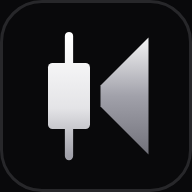
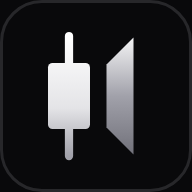
手機捲動、熱門併進排行、選股數字對比、免責聲明只放頁尾（2026.10.18-88）
- 手機清單不再是內層捲動區、頂列不用模糊，往上滑整頁都能捲
- 台股熱門、美股熱門併進排行（上方切換），大盤台股、美股頁加熱門前 8
- 選股數字格與行事曆選中日期改成強調色底＋深色字
- 免責聲明只在頁尾一次；手機頂列 KLineLab 字樣不被擠掉；按鍵無框；Logo 光束改細

Claude-Session: https://claude.ai/code/session_011EReSQ4tNZuoZsgYyKDAzu

Changed region(s): [[0.5, 0.1875, 0.7812, 0.8125]]

diff --git a/learner/watch.html b/learner/watch.html
@@ -6,9 +6,9 @@
 <title>KLineLab｜看盤終端</title>
 <meta name="description" content="自選股（多群組）、台股與美股熱門、排行、當日分時、K 線（分／日／週／月都能往前拉）、技術分析、籌碼、基本面、五檔、持股損益與價格提醒。">
 <meta name="theme-color" content="#09090B">
-<link rel="manifest" href="watch.webmanifest?v=2">
-<link rel="apple-touch-icon" href="watch-icon-180.png?v=2">
-<link rel="icon" href="logo.svg?v=2" type="image/svg+xml">
+<link rel="manifest" href="watch.webmanifest?v=3">
+<link rel="apple-touch-icon" href="watch-icon-180.png?v=3">
+<link rel="icon" href="logo.svg?v=3" type="image/svg+xml">
 <link rel="alternate icon" href="watch-icon-192.png">
 <meta name="apple-mobile-web-app-capable" content="yes">
 <meta name="mobile-web-app-capable" content="yes">
@@ -272,7 +272,7 @@ input[type="number"] { padding: 6px 9px; border: 1px solid var(--line); border-r
   .qbar button svg { width: 22px; height: 22px; fill: none; stroke: currentColor; stroke-width: 1.8; stroke-linecap: round; stroke-linejoin: round; }
   .qbar button[aria-current="true"] { color: var(--accent); font-weight: 500; }
 }
-@media (max-width: 480px) { .brand span { display: none; } .w-top { padding-left: 10px; padding-right: 10px; } .d-px b { font-size: 28px; } .ixc { padding: 3px 8px; gap: 4px; } }
+@media (max-width: 480px) { .brand .bl-t small, .w-top .bl-pro { display: none; } .w-top { padding-left: 10px; padding-right: 10px; } .d-px b { font-size: 28px; } .ixc { padding: 3px 8px; gap: 4px; } }
 /* 清單分頁可以左右滑 */
 .etfseg { flex-wrap: wrap; max-width: 100%; } .etfseg button { white-space: nowrap; flex: 0 0 auto; }
 .wl .annrow { display: flex; align-items: center; gap: 6px; padding-right: 10px; } .wl .annrow .row { flex: 1; min-width: 0; } .wl .annrow .pc { background: none; color: var(--muted); font-size: 12px; }
@@ -345,7 +345,7 @@ input[type="number"] { padding: 6px 9px; border: 1px solid var(--line); border-r
 .gtiles.mk-g { margin: 0; }
 .caldays { display: grid; grid-template-columns: repeat(7, minmax(0, 1fr)); gap: 4px; margin-bottom: 8px; }
 .caldays button { border: 1px solid var(--line); border-radius: 4px; background: var(--surface); color: var(--ink); cursor: pointer; padding: 5px 0; display: flex; flex-direction: column; align-items: center; gap: 1px; font: inherit; min-width: 0; }
-.caldays button[aria-pressed="true"] { background: var(--accent); border-color: var(--accent); color: #fff; } .caldays button.today { border-color: var(--accent); } .caldays small { font-size: 11px; opacity: .8; } .caldays b { font: 500 17px var(--font-num); }
+.caldays button[aria-pressed="true"] { background: var(--grad-strong); border-color: var(--grad-strong); color: var(--on-strong); } .caldays button.today { border-color: var(--accent); } .caldays small { font-size: 11px; opacity: .8; } .caldays b { font: 500 17px var(--font-num); }
 .caldays span { display: flex; flex-direction: column; align-items: center; font-size: 10.5px; line-height: 1.3; } .caldays i, .calday i { font-style: normal; font-weight: 500; } .cc { color: #6c8cff; } .ce { color: #2bb58a; } .caldays button[aria-pressed="true"] i { color: #fff; }
 .wlist { list-style: none; margin: 0; padding: 0; } .wlist button { width: 100%; display: flex; justify-content: space-between; gap: 8px; align-items: center; border: 0; border-bottom: 1px solid var(--line); background: none; color: var(--ink); padding: 7px 0; cursor: pointer; text-align: left; font: inherit; }
 .wlist .nm { display: flex; flex-direction: column; font-size: 14px; } .wlist small { color: var(--muted); font-size: 11.5px; } .wlist .wr { text-align: right; max-width: 55%; }
@@ -499,6 +499,7 @@ input[type="number"] { padding: 6px 9px; border: 1px solid var(--line); border-r
 .bwrap { margin: 6px 12px; border: 1px solid var(--line); border-radius: 4px; background: var(--surface-2); } .bubble { width: 100%; height: auto; display: block; } .bax { stroke: var(--line); stroke-width: 1; } .bq { font: 500 10px var(--font-body); fill: var(--muted); }
 .bnode { cursor: pointer; } .bnode circle { stroke: none; fill-opacity: var(--bop, .45); transition: fill-opacity .2s; } .bnode.on circle { fill-opacity: min(1, calc(var(--bop, .45) + .35)); } .bnode:focus circle, .bnode:hover circle { fill-opacity: min(1, calc(var(--bop, .45) + .2)); }
 .mtool { display: flex; align-items: center; justify-content: space-between; gap: 8px 12px; flex-wrap: wrap; margin: 6px 12px; } .mtool .cg-t { font-family: var(--font-display); font-weight: 600; color: var(--ink); letter-spacing: .02em; }
+.foot-disc { margin: 4px 16px 12px; } :root[data-embed="1"] .foot-disc { display: none; } .hotmini h3 { display: flex; align-items: baseline; gap: 8px; }
 .ctags { display: flex; flex-wrap: wrap; gap: 4px; margin-top: 3px; } .ctg { font-style: normal; font-size: 11px; line-height: 1.5; padding: 0 6px; border-radius: 4px; border: 1px solid var(--line); color: var(--muted); } .ctg.up { color: var(--up); border-color: color-mix(in srgb, var(--up) 40%, transparent); } .ctg.down { color: var(--down); border-color: color-mix(in srgb, var(--down) 40%, transparent); } .ctg.warn { color: var(--ink); }
 .bopr { margin: 0; }
 .bopr { display: flex; align-items: center; gap: 8px; margin: 2px 12px 0; font-size: 12px; color: var(--muted); } .bopr input { flex: 1; max-width: 220px; accent-color: var(--ink); } .bopr b { font: 500 12px var(--font-num); color: var(--ink); min-width: 3em; } .bax-t { font: 10px var(--font-body); fill: var(--muted); } .blab { pointer-events: none; } .blab text { paint-order: stroke; stroke: var(--surface-2); stroke-width: 3px; stroke-linejoin: round; }
@@ -551,7 +552,7 @@ input[type="number"] { padding: 6px 9px; border: 1px solid var(--line); border-r
 .gtiles { display: grid; grid-template-columns: repeat(auto-fill, minmax(104px, 1fr)); gap: 8px; margin: 8px 12px; }
 .gtile { border: 1px solid var(--line); border-radius: 4px; background: var(--surface); color: var(--ink); cursor: pointer; padding: 0; overflow: hidden; display: flex; flex-direction: column; min-height: 78px; font: inherit; text-align: center; }
 .gtile span { flex: 1; display: flex; align-items: center; justify-content: center; padding: 8px 6px; font-size: 13.5px; font-weight: 500; line-height: 1.3; }
-.gtile b { background: var(--accent); color: #fff; font: 500 16px var(--font-num); padding: 4px 0; } .gtile.bear b { background: var(--down); } .gtile.bull b { background: var(--up); } .gtile.zero b { background: var(--line); color: var(--muted); }
+.gtile b { background: var(--grad-strong); color: var(--on-strong); font: 500 16px var(--font-num); padding: 4px 0; } .gtile.bear b { background: var(--down); color: #fff; } .gtile.bull b { background: var(--up); color: #fff; } .gtile.zero b { background: var(--line); color: var(--muted); }
 .gsub { margin: 10px 14px 0; font-size: 13px; font-weight: 500; color: var(--muted); } .gnote { margin: 6px 14px; }
 .gback { display: flex; align-items: baseline; gap: 8px; margin: 8px 12px; } .gback b { font-size: 15px; } .gback .note { flex: 1; min-width: 0; }
 .taglist { list-style: none; margin: 0; padding: 0 14px 12px; } .taglist li { display: flex; gap: 8px; align-items: baseline; padding: 8px 0; border-bottom: 1px solid var(--line); font-size: 14px; }
@@ -693,7 +694,7 @@ input.code:focus, select.sel:focus { border-color: var(--ink); outline: none; }
 </head>
 <body>
 <header class="w-top">
-  <a class="brand" href="./" aria-label="KLineLab 首頁"><img class="logo" src="logo.svg?v=2" alt="" width="34" height="34"><span class="bl-t"><b>KLineLab</b><small>看盤終端</small></span></a><a class="bl-pro" href="pro.html" title="KLineLab Pro 方案">PRO</a>
+  <a class="brand" href="./" aria-label="KLineLab 首頁"><img class="logo" src="logo.svg?v=3" alt="" width="34" height="34"><span class="bl-t"><b>KLineLab</b><small>看盤終端</small></span></a><a class="bl-pro" href="pro.html" title="KLineLab Pro 方案">PRO</a>
   <div class="ix" id="ix" aria-label="大盤指數"></div>
   <div class="tools">
     <span class="stat" id="stat"><i class="dot" id="dot"></i><span class="st-t" id="statText">連線中…</span></span>
@@ -712,7 +713,7 @@ input.code:focus, select.sel:focus { border-color: var(--ink); outline: none; }
   <section class="w-list panel" aria-label="清單" id="listPane">
     <div class="l-head">
       <div class="l-ix" id="ix2"></div>
-      <div class="seg full ltabs" role="group" aria-label="清單" id="lTabs"><button type="button" class="gsbtn" data-gsearch aria-label="搜尋個股">🔍</button><button data-l="watch">自選</button><button data-l="hold">庫存</button><button data-l="tools">工具</button><button data-l="mkt">大盤</button><button data-l="screen">選股</button><button data-l="money">資金雷達</button><button data-l="ind">供應鏈</button><button data-l="etf">ETF</button><button data-l="pod">節目觀點</button><button data-l="cong">大戶國會</button><button data-l="tw">台股熱門</button><button data-l="us">美股熱門</button><button data-l="rank">排行</button><button data-l="after">盤後</button></div>
+      <div class="seg full ltabs" role="group" aria-label="清單" id="lTabs"><button type="button" class="gsbtn" data-gsearch aria-label="搜尋個股">🔍</button><button data-l="watch">自選</button><button data-l="hold">庫存</button><button data-l="tools">工具</button><button data-l="mkt">大盤</button><button data-l="screen">選股</button><button data-l="money">資金雷達</button><button data-l="ind">供應鏈</button><button data-l="etf">ETF</button><button data-l="pod">節目觀點</button><button data-l="cong">大戶國會</button><button data-l="rank">排行</button><button data-l="after">盤後</button></div>
       <div class="groups" id="groups"></div>
       <div class="search" id="searchBox">
         <button type="button" class="gsadd" data-gsearch-add>🔍 搜尋代號或名稱，加入自選</button>
@@ -844,7 +845,7 @@ input.code:focus, select.sel:focus { border-color: var(--ink); outline: none; }
     </div>
   </section>
 </main>
-<p class="note foot">報價：台股用證交所 MIS（約 5 秒一筆快照，設定富果金鑰時個股與分 K 改用富果）；美股用 Yahoo Finance（可能延遲 15 分鐘）；日 K 來自證交所、櫃買中心或 Yahoo；籌碼與財報來自 FinMind 與證交所。不是逐筆即時、不能下單。</p><p class="disc foot-disc">本平台提供之所有數據、K線型態辨識、機構與內部人申報彙整及歷史回測模擬，均基於政府公開資訊與客觀統計模型自動計算，僅供投資研究與數據視覺化參考，不構成任何證券投資顧問或個股買賣建議。<span class="num" style="margin-left:8px">版本 2026.10.18-87</span></p>
+<p class="note foot">報價：台股用證交所 MIS（約 5 秒一筆快照，設定富果金鑰時個股與分 K 改用富果）；美股用 Yahoo Finance（可能延遲 15 分鐘）；日 K 來自證交所、櫃買中心或 Yahoo；籌碼與財報來自 FinMind 與證交所。不是逐筆即時、不能下單。</p><p class="disc foot-disc">本平台提供之所有數據、K線型態辨識、機構與內部人申報彙整及歷史回測模擬，均基於政府公開資訊與客觀統計模型自動計算，僅供投資研究與數據視覺化參考，不構成任何證券投資顧問或個股買賣建議。<span class="num" style="margin-left:8px">版本 2026.10.18-88</span></p>
 
 <nav class="qbar" id="qbar" aria-label="快捷選單">
   <button data-q="list"><svg viewBox="0 0 24 24" aria-hidden="true"><path d="M8 6h12M8 12h12M8 18h12M4 6h.01M4 12h.01M4 18h.01"/></svg>清單</button>
@@ -1328,6 +1329,16 @@ function placeTabs() {
   top.hidden = mob;
 }
 placeTabs(); matchMedia("(max-width: 900px)").addEventListener("change", () => { placeTabs(); ltabsUi(true); });
+// 台股熱門、美股熱門併進「排行」分頁（清單上方切換）；大盤的台股、美股頁也各有熱門前 8 名
+const ltTab = () => (W.lt === "tw" || W.lt === "us" ? "rank" : W.lt);
+const rankHub = () => `<div class="seg" role="group" aria-label="排行種類" id="rkHub">${[["rank", "台股排行"], ["tw", "台股熱門"], ["us", "美股熱門"]].map(([k, t]) => `<button data-l="${k}" aria-pressed="${W.lt === k}">${t}</button>`).join("")}</div>`;
+$("#lTools").addEventListener("click", e => { const b = e.target.closest("#rkHub [data-l]"); if (b) setLt(b.dataset.l, true); });
+function hotMini(m) {
+  const H = m === "us" ? W.hot["us:active"] : W.hot.tw; if (!H && !W.off) loadHot(m === "us" ? "us" : "tw");
+  const rows = (H?.rows || []).slice(0, 8);
+  return `<section class="mk hotmini"><h3>${m === "us" ? "美股熱門" : "台股熱門"}<span class="note">${m === "us" ? "最活躍" : "成交值"}前 8 名</span><button class="linkbtn" data-hotgo="${m === "us" ? "us" : "tw"}" style="margin-left:auto">看全部 ›</button></h3>
+    ${rows.length ? `<ul class="slist">${rows.map(r => { const q = W.quotes.get(r.code) || r; return `<li><button data-sel="${esc(r.code)}"><span class="nm">${esc(nameOf(r.code) !== r.code ? nameOf(r.code) : r.name || r.code)}<small>${esc(r.code)}</small></span><b class="${cls(q.chg)}">${fmtPx(q.price, r.code)}<small>${q.chgPct != null ? (q.chgPct > 0 ? "+" : "") + (+q.chgPct).toFixed(2) + "%" : ""}</small></b></button></li>`; }).join("")}</ul>` : `<p class="note">${H?.err ? "⚠ " + esc(H.err) : W.off ? "需要部署到網站才有資料。" : "載入中…"}</p>`}</section>`;
+}
 function ltabsUi(center = false) {
   const t = $("#lTabs"), a = t.querySelector('[aria-pressed="true"]');
   if (a && center) { const tr = t.getBoundingClientRect(), ar = a.getBoundingClientRect(); if (ar.left < tr.left + 20 || ar.right > tr.right - 24) t.scrollTo({ left: t.scrollLeft + ar.left - tr.left - (tr.width - ar.width) / 2, behavior: "smooth" }); }
@@ -1425,7 +1436,7 @@ function postTabs() {
 if (EMBED) { let rq = 0; const re = () => { if (!rq) rq = requestAnimationFrame(() => { rq = 0; placeDrawer(); }); }; try { parent.addEventListener("scroll", re, { passive: true }); parent.addEventListener("resize", re); } catch {} addEventListener("resize", re); }
 function renderList0() {
   syncLayout();
-  document.querySelectorAll("#lTabs [data-l]").forEach(b => b.setAttribute("aria-pressed", b.dataset.l === W.lt));
+  document.querySelectorAll("#lTabs [data-l]").forEach(b => b.setAttribute("aria-pressed", b.dataset.l === ltTab()));
   const watch = W.lt === "watch";
   $("#groups").hidden = !watch; $("#searchBox").hidden = !watch; $("#lx").hidden = !["hold", "mkt", "screen", "ind", "money", "pod", "after", "cong", "tools"].includes(W.lt); $("#wl").hidden = ["mkt", "screen", "ind", "money", "pod", "after", "cong", "tools"].includes(W.lt);
   $("#groups").innerHTML = W.groups.map((g, i) => `<button data-g="${i}" aria-pressed="${i === W.gi}">${esc(g.name)} <span class="note">${g.list.length}</span></button>`).join("") + `<button data-g="new" title="新增群組">＋ 群組</button>`;
@@ -1471,23 +1482,21 @@ function renderList0() {
     note = renderAfter();
   } else if (W.lt === "tw") {
     const H = W.hot.tw;
-    $("#lTools").innerHTML = `<span class="note">${H?.live ? `${liveTag(H)}・依成交值排序` : `依${H?.date ? " " + H.date.replace(/-/g, "/") + " " : "最近交易日"}成交值排序，價格即時更新`}</span>`;
+    $("#lTools").innerHTML = rankHub() + `<span class="note">${H?.live ? `${liveTag(H)}・依成交值排序` : `依${H?.date ? " " + H.date.replace(/-/g, "/") + " " : "最近交易日"}成交值排序，價格即時更新`}</span>`;
     $("#wl").innerHTML = H?.rows?.length ? (H.live ? liveRank(H.rows, "value") : H.rows).map((r, i) => rowHtml(r.code, W.quotes.get(r.code) || r, { rank: i + 1, metric: `成交值 ${r.value != null ? r.value.toFixed(1) + " 億" : "—"}`, star: true })).join("") : `<li class="empty note">${H?.err ? "⚠ " + esc(H.err) : W.off ? "需要部署到網站才有熱門股。" : "載入中…"}</li>`;
     note = H?.source ? `資料：${H.source}` : "";
   } else if (W.lt === "us") {
     const H = W.hot["us:" + W.usType];
-    $("#lTools").innerHTML = `<div class="seg" role="group" aria-label="美股" id="usSeg">${[["active", "最活躍"], ["gain", "漲幅"], ["loss", "跌幅"]].map(([k, t]) => `<button data-us="${k}" aria-pressed="${W.usType === k}">${t}</button>`).join("")}</div><span class="note">依即時報價排名・30 秒重抓名單</span>`;
+    $("#lTools").innerHTML = rankHub() + `<div class="seg" role="group" aria-label="美股" id="usSeg">${[["active", "最活躍"], ["gain", "漲幅"], ["loss", "跌幅"]].map(([k, t]) => `<button data-us="${k}" aria-pressed="${W.usType === k}">${t}</button>`).join("")}</div><span class="note">依即時報價排名・30 秒重抓名單</span>`;
     $("#wl").innerHTML = H?.rows?.length ? liveRank(H.rows, W.usType).map((r, i) => rowHtml(r.code, { ...r, ...(W.quotes.get(r.code) || {}) }, { rank: i + 1, star: true })).join("") : `<li class="empty note">${H?.err ? "⚠ " + esc(H.err) : W.off ? "需要部署到網站才有美股資料。" : "載入中…"}</li>`;
     note = H?.source ? `資料：${H.source}；美股報價可能延遲 15 分鐘，時間為美東時間` : "";
   } else {
     const H = W.hot["rank:" + W.rankType], chipRank = W.rankType === "foreign" || W.rankType === "trust";
-    $("#lTools").innerHTML = `<div class="seg" role="group" aria-label="排行" id="rankSeg">${RANKS.map(([k, t]) => `<button data-rank="${k}" aria-pressed="${W.rankType === k}">${t}</button>`).join("")}</div>`;
+    $("#lTools").innerHTML = rankHub() + `<div class="seg" role="group" aria-label="排行" id="rankSeg">${RANKS.map(([k, t]) => `<button data-rank="${k}" aria-pressed="${W.rankType === k}">${t}</button>`).join("")}</div>`;
     $("#wl").innerHTML = H?.rows?.length ? (H.live && !chipRank ? liveRank(H.rows, W.rankType) : H.rows).map((r, i) => rowHtml(r.code, chipRank ? { name: r.name, ...(W.quotes.get(r.code) || {}) } : { ...r, ...(W.quotes.get(r.code) || {}) }, { rank: i + 1, star: true,
       metric: chipRank ? `${W.rankType === "foreign" ? "外資" : "投信"}買超 ${r[W.rankType].toLocaleString()} 張` : W.rankType === "value" ? `成交值 ${r.value?.toFixed(1)} 億` : W.rankType === "volume" ? `成交量 ${fmtVol(r.vol)} 張` : `${r.live ? "現價" : "收盤"} ${fmtP(r.price)}・${r.chgPct > 0 ? "+" : ""}${(+r.chgPct).toFixed(2)}%` })).join("") : `<li class="empty note">${H?.err ? "⚠ " + esc(H.err) : W.off ? "需要部署到網站才有排行。" : "載入中…"}</li>`;
     note = H ? `${H.live ? "盤中即時排行（依每秒報價重新排序，名單每 15 秒更新）" : H.date ? H.date.replace(/-/g, "/") + " 收盤後統計" : ""}${H.source ? "・" + H.source : ""}；右邊的價格是即時價` : "";
   }
-  // 回測、籌碼、申報相關的清單頁底部都放免責聲明
-  if (["cong", "hold", "screen", "money", "tools", "pod", "ind"].includes(W.lt) && !$("#lx").hidden && !$("#lx").querySelector(".disc")) $("#lx").insertAdjacentHTML("beforeend", discHtml());
   W.prevPx.clear();
   const ago = W.lastOk ? Math.round((Date.now() - W.lastOk) / 1000) : null;
   if (W.off) note = "這個環境沒有資料服務；部署到網站（Vercel）後才會有即時資料。";
@@ -2579,7 +2588,7 @@ function renderUsMkt(top) {
   if (J.megas?.length) h += sec("權值股", `<div class="mtiles">${J.megas.map(mtile).join("")}</div>`);
   const t = W.usHot || "active", H = W.hot["us:" + t];
   h += sec("美股熱門", H?.rows?.length ? `<div class="mtiles">${H.rows.slice(0, 9).map(mtile).join("")}</div>` : `<p class="note">${H?.err ? "⚠ " + esc(H.err) : "載入中…"}</p>`, "", mkSeg("usHot", t, [["active", "最活躍"], ["gain", "漲幅"], ["loss", "跌幅"]]));
-  $("#lx").innerHTML = h;
+  $("#lx").innerHTML = h + hotMini("us");
 }
 // 方塊樹狀圖（squarified）：values 依大小排好，回傳每塊在 W×H 裡的位置（這裡用百分比）
 function treemap(values, W, H) {
@@ -2707,8 +2716,8 @@ function renderMkt() {
   if (W.mkReg === "gl") return renderGlobal(top);
   const J = W.mkt, q = c => W.quotes.get(c);
   let h = top + `<div class="ixcards three" id="mkCards">${mktCards()}</div>`;
-  if (!J) { $("#lx").innerHTML = h + `<p class="note" style="padding:12px">${W.off ? "需要部署到網站才有大盤資料。" : "載入中…"}</p>`; return; }
-  if (J.err) { $("#lx").innerHTML = h + `<p class="note err" style="padding:12px">⚠ ${esc(J.err)}</p>`; return; }
+  if (!J) { $("#lx").innerHTML = h + `<p class="note" style="padding:12px">${W.off ? "需要部署到網站才有大盤資料。" : "載入中…"}</p>` + hotMini("tw"); return; }
+  if (J.err) { $("#lx").innerHTML = h + `<p class="note err" style="padding:12px">⚠ ${esc(J.err)}</p>` + hotMini("tw"); return; }
   const sec = (t, body, extra = "", seg = "") => `<section class="mk"><h3>${t}${extra ? `<span class="note">${extra}</span>` : ""}</h3>${seg ? `<div class="mksegrow">${seg}</div>` : ""}${body}</section>`;
   // 可收合的區塊：標題列點一下收起／展開，狀態記在這個瀏覽器（預設收起）
   const fsec = (key, t, body, extra = "", seg = "") => `<details class="mk mkfold" data-fold="${key}" ${store.get("watch:fold:" + key, false) ? "open" : ""}><summary><h3>${t}${extra ? `<span class="note">${extra}</span>` : ""}</h3></summary>${seg ? `<div class="mksegrow">${seg}</div>` : ""}${body}</details>`;
@@ -2768,7 +2777,7 @@ function renderMkt() {
     const dl = calDeadlines(a, b); if (dl.length && CAL && !CAL.err) body += `<ul class="tlist caldl">${dl.map(x => `<li><span class="ctag one">${x.d.slice(5).replace("-", "/")}</span> ${esc(x.t)}</li>`).join("")}</ul>`;
     h += fsec("cal", "理財行事曆", body + `<p class="note" style="margin:6px 0 0">★ 是你的自選或庫存（選「★ 我的」只看這些）；點日期只看那一天，再點一次看整週。資料：${esc(CAL?.source || "證交所、櫃買中心")}，以公告為準。</p>`, `${a.slice(5).replace("-", "/")}～${b.slice(5).replace("-", "/")}`,
       mkSeg("calWk", String(W.calWk), [["0", "本週"], ["1", "下週"], ["2", "下下週"]]) + " " + mkSeg("calK", K, [["all", "全部"], ["mine", "★ 我的"], ["conf", "法說會"], ["ex", "除權息"]])); }
-  $("#lx").innerHTML = h;
+  $("#lx").innerHTML = h + hotMini("tw");
 }
 // 大盤的產業：到資金分頁打開「產業別」板塊（看成分股）；找不到同名的就到選股
 // 大盤的產業名稱（例如「塑膠工業」「電子零組件業」）和資金分頁的產業別（「塑膠」「電子零組件」）不完全一樣：模糊比對，資金資料還沒載入就等載入後再對
@@ -2781,6 +2790,7 @@ function futInfo(cid) { const q = W.futx?.[cid]; if (!q) return toast("期貨報
   openSheet(`<div class="futinfo"><h3>${esc(q.name || cid)}</h3><p class="d-px"><b class="${cls(q.chg)}">${q.price ?? "—"}</b> <span class="${cls(q.chg)}">${pctTxt(q.chg, q.chgPct)}</span></p>
     <div class="d-kv">${row("參考價", q.prev)}${row("開盤", q.open)}${row("最高", q.high)}${row("最低", q.low)}${row("成交量", q.vol != null ? q.vol.toLocaleString() + " 口" : null)}${row("時間", q.time)}</div>
     <p class="note">${q.session === "night" ? "夜盤（15:00～隔天 05:00）" : "日盤（08:45～13:45）"}・資料：富果或期交所</p></div>`, false); }
+$("#lx").addEventListener("click", e => { const hg = e.target.closest("[data-hotgo]"); if (hg) { if (hg.dataset.hotgo === "us") { W.usType = "active"; store.set("watch:us", "active"); } setLt(hg.dataset.hotgo); return; } });
 $("#lx").addEventListener("click", e => { const b = e.target.closest("[data-mk]"); if (!b || W.lt !== "mkt") return; const k = b.dataset.mk, v = b.dataset.v;
   if (k === "goRank") { setLt("rank"); return; }
   if (k === "goRankT") { W.rankType = v; store.set("watch:rank", v); setLt("rank"); loadHot("tw-rank"); return; }
@@ -3997,7 +4007,7 @@ if (EMBED) {
 /* ---------- 起始 ---------- */
 function renderAll() { renderTop(); renderList(); if (W.sel) { renderDetailHead(); if (W.ftab === "book") renderBook(); } postHeight(); }
 const h0 = location.hash.slice(1).toUpperCase();
-document.querySelectorAll("#lTabs [data-l]").forEach(b => b.setAttribute("aria-pressed", b.dataset.l === W.lt));
+document.querySelectorAll("#lTabs [data-l]").forEach(b => b.setAttribute("aria-pressed", b.dataset.l === ltTab()));
 if (okCode(h0)) select(h0, "none");
 else if (!isMobile()) { const c = W.last && okCode(W.last) ? W.last : curList()[0]; if (c) select(c, "none"); }
 else setQ("list");

diff --git a/learner/core.js b/learner/core.js
@@ -16,7 +16,7 @@ function fmtPct(x, d = 2) { return (x >= 0 ? "+" : "") + (x * 100).toFixed(d) + 
 function fmtN(x, d = 1) { return x == null ? "—" : x.toFixed(d); }
 // 品牌（KLineLab K線情報局）：1:1 幾何 K 線圖標（漸層實心 K 棒＋影線、上下都削 45 度的鈦金屬灰突破光束，合起來像字母 K）＋Space Grotesk 字標＋PRO 徽章
 const BRAND = { name: "KLineLab", zh: "K線情報局", tag: "將複雜的台美股機構籌碼與供應鏈資金，化為一目了然突破訊號的量化研究終端機" };
-const brandIcon = (s = 32) => `<svg class="bl-ic" viewBox="0 0 512 512" width="${s}" height="${s}" aria-hidden="true"><defs><linearGradient id="blkc" gradientUnits="userSpaceOnUse" x1="0" y1="96" x2="0" y2="416"><stop offset="0" stop-color="#fff"/><stop offset=".6" stop-color="#e4e4e7"/><stop offset="1" stop-color="#a1a1aa"/></linearGradient><linearGradient id="blti" x1="0" y1="1" x2="0" y2="0"><stop offset="0" stop-color="#71717a"/><stop offset=".5" stop-color="#a1a1aa"/><stop offset="1" stop-color="#f4f4f5"/></linearGradient></defs><rect width="512" height="512" rx="112" fill="#09090b"/><rect x="4" y="4" width="504" height="504" rx="108" fill="none" stroke="#27272a" stroke-width="8"/><path d="M184 96v320" stroke="url(#blkc)" stroke-width="22" stroke-linecap="round"/><rect x="128" y="168" width="112" height="176" rx="12" fill="url(#blkc)"/><path d="M268 228 396 100v312L268 284z" fill="url(#blti)"/></svg>`;
+const brandIcon = (s = 32) => `<svg class="bl-ic" viewBox="0 0 512 512" width="${s}" height="${s}" aria-hidden="true"><defs><linearGradient id="blkc" gradientUnits="userSpaceOnUse" x1="0" y1="96" x2="0" y2="416"><stop offset="0" stop-color="#fff"/><stop offset=".6" stop-color="#e4e4e7"/><stop offset="1" stop-color="#a1a1aa"/></linearGradient><linearGradient id="blti" x1="0" y1="1" x2="0" y2="0"><stop offset="0" stop-color="#71717a"/><stop offset=".5" stop-color="#a1a1aa"/><stop offset="1" stop-color="#f4f4f5"/></linearGradient></defs><rect width="512" height="512" rx="112" fill="#09090b"/><rect x="4" y="4" width="504" height="504" rx="108" fill="none" stroke="#27272a" stroke-width="8"/><path d="M184 96v320" stroke="url(#blkc)" stroke-width="22" stroke-linecap="round"/><rect x="128" y="168" width="112" height="176" rx="12" fill="url(#blkc)"/><path d="M284 172 356 100v312l-72-72z" fill="url(#blti)"/></svg>`;
 const brandHtml = ({ pro = true, zh = true, href = "" } = {}) => `<${href ? `a href="${href}"` : "span"} class="bl">${brandIcon()}<span class="bl-t"><b>${BRAND.name}</b>${zh ? `<small>${BRAND.zh}</small>` : ""}</span>${pro ? `<span class="bl-pro">PRO</span>` : ""}</${href ? "a" : "span"}>`;
 // SVG 縮寫徽章：取名稱前兩個字（英文取字首），底色由名稱雜湊出固定的代表色（不用外部照片或節目封面）
 const BADGE_C = ["#3f3f46", "#1e3a5f", "#3b2f5c", "#14532d", "#5b2121", "#4a3a12", "#0f4c5c", "#52314a"];

diff --git a/learner/index.html b/learner/index.html
@@ -5,9 +5,9 @@
 <meta name="viewport" content="width=device-width, initial-scale=1, viewport-fit=cover">
 <meta name="theme-color" content="#09090B">
 <title>KLineLab K線情報局｜台美股量化研究終端機</title>
-<link rel="manifest" href="app.webmanifest?v=2">
-<link rel="apple-touch-icon" href="watch-icon-180.png?v=2">
-<link rel="icon" href="logo.svg?v=2" type="image/svg+xml">
+<link rel="manifest" href="app.webmanifest?v=3">
+<link rel="apple-touch-icon" href="watch-icon-180.png?v=3">
+<link rel="icon" href="logo.svg?v=3" type="image/svg+xml">
 <meta name="apple-mobile-web-app-capable" content="yes">
 <meta name="mobile-web-app-capable" content="yes">
 <meta name="apple-mobile-web-app-title" content="KLineLab">
@@ -545,7 +545,7 @@ footer .ft-brand { font-size: 13px; color: var(--ink); margin-bottom: 4px; } foo
 <header class="top">
   <div class="top-inner">
     <div class="brand">
-      <img class="seal logo" src="logo.svg?v=2" alt="" width="40" height="40">
+      <img class="seal logo" src="logo.svg?v=3" alt="" width="40" height="40">
       <div><h1 class="bl-t"><b>KLineLab</b><small>K線情報局</small></h1><p>台美股量化研究終端機</p></div>
       <a class="bl-pro" href="pro.html" title="KLineLab Pro 方案">PRO</a>
     </div>
@@ -880,7 +880,7 @@ footer .ft-brand { font-size: 13px; color: var(--ink); margin-bottom: 4px; } foo
     <button class="btn primary" id="chatSend">送出</button><button type="button" class="btn" id="chatStop" hidden>停止</button>
   </form>
 </section>
-<footer><div class="ft-brand"><b>KLineLab</b> K線情報局・<a href="watch.html">看盤終端</a>・<a href="pro.html">Pro 方案</a></div><p class="disc">本平台提供之所有數據、K線型態辨識、機構與內部人申報彙整及歷史回測模擬，均基於政府公開資訊與客觀統計模型自動計算，僅供投資研究與數據視覺化參考，不構成任何證券投資顧問或個股買賣建議。</p>課程與練習預設用程式模擬的走勢，也可以切換成真實個股；真實日 K 來自證交所、櫃買中心或 Yahoo Finance。<span class="ver">版本 2026.10.18-87</span></footer>
+<footer><div class="ft-brand"><b>KLineLab</b> K線情報局・<a href="watch.html">看盤終端</a>・<a href="pro.html">Pro 方案</a></div><p class="disc">本平台提供之所有數據、K線型態辨識、機構與內部人申報彙整及歷史回測模擬，均基於政府公開資訊與客觀統計模型自動計算，僅供投資研究與數據視覺化參考，不構成任何證券投資顧問或個股買賣建議。</p>課程與練習預設用程式模擬的走勢，也可以切換成真實個股；真實日 K 來自證交所、櫃買中心或 Yahoo Finance。<span class="ver">版本 2026.10.18-88</span></footer>
 
 <script src="core.js"></script>
 <script src="analysis.js"></script>

diff --git a/learner/minimal.css b/learner/minimal.css
@@ -353,3 +353,15 @@ svg circle[stroke-width] { stroke-width: 1.2px; }
 /* 新 Logo 在頂列放大一點（原本 26px 太小看不清楚） */
 :is(:root[data-style="layout"], :root[data-style="lab"]) .top .seal.logo { width: 36px; height: 36px; border-radius: 9px; }
 @media (max-width: 640px) { :is(:root[data-style="layout"], :root[data-style="lab"]) .top .seal.logo { width: 30px; height: 30px; } }
+/* 按鍵維持無框：PRO 徽章、首頁介紹的按鈕、K 線副圖訊號開關、搜尋加入鈕都用底色區分，不畫外框 */
+.bl-pro, .hero-btn, .hero-x, .sigbar button, .gsadd { border: 0 !important; }
+.bl-pro { background: var(--surface-2); }
+.hero-btn:not(.pri), .hero-x { background: var(--surface-2); }
+.sigbar button { background: var(--surface-2); } .sigbar button[aria-pressed="true"] { background: var(--grad-strong); color: var(--on-strong); }
+/* 手機：品牌字樣不要被擠掉（窄螢幕先藏副標與 PRO 徽章）；捲動時頂列不用模糊效果（iOS 捲動比較順） */
+.brand h1.bl-t { overflow: visible !important; text-overflow: clip !important; flex: none; }
+@media (max-width: 480px) { .top .brand .bl-t small, .top .brand > .bl-pro { display: none; } .top .brand p { display: none; } }
+@media (max-width: 900px) {
+  .w-top, .top, .ltabs, .dtabs, :is(:root[data-style="layout"], :root[data-style="lab"]) .w-top, :is(:root[data-style="layout"], :root[data-style="lab"]) .top, :is(:root[data-style="layout"], :root[data-style="lab"]) .ltabs, :is(:root[data-style="layout"], :root[data-style="lab"]) .dtabs { -webkit-backdrop-filter: none !important; backdrop-filter: none !important; background: var(--bg) !important; }
+  .wl { overflow: visible; overscroll-behavior: auto; }
+}

diff --git a/learner/pro.html b/learner/pro.html
@@ -6,8 +6,8 @@
 <meta name="theme-color" content="#09090B">
 <title>KLineLab Pro｜K線情報局</title>
 <meta name="description" content="KLineLab Pro：台美股機構籌碼、國會申報、供應鏈資金與 K 線回測的量化研究終端機。加入候補名單。">
-<link rel="icon" href="logo.svg?v=2" type="image/svg+xml">
-<link rel="apple-touch-icon" href="watch-icon-180.png?v=2">
+<link rel="icon" href="logo.svg?v=3" type="image/svg+xml">
+<link rel="apple-touch-icon" href="watch-icon-180.png?v=3">
 <!-- KLineLab Pro 方案頁：方案比較＋候補名單（POST /api/sync op=waitlist，存在 KV）。目前不收費、沒有會員登入。主題跟著首頁（kline:theme）。 -->
 <script>try { document.documentElement.dataset.theme = JSON.parse(localStorage.getItem("kline:theme") || '"dark"'); } catch { document.documentElement.dataset.theme = "dark"; }</script>
 <link rel="preconnect" href="https://fonts.googleapis.com">

diff --git a/learner/quant.js b/learner/quant.js
@@ -255,7 +255,7 @@ function btReportHtml(bt, M, B, V, opt = {}) {
       <ul class="qx-list"><li><b>降低風險</b><span>${A.risk.length ? A.risk.map(x => `${qEsc(x.name)}：回撤 ${(b.mdd * 100).toFixed(1)}% → ${(x.m.mdd * 100).toFixed(1)}%`).join("；") : "試算的做法都沒有在不犧牲太多報酬下降低回撤。"}</span></li>
       <li><b>提高報酬（不增加回撤）</b><span>${A.ret.length ? A.ret.map(x => `${qEsc(x.name)}：報酬 ${qP(b.total)} → ${qP(x.m.total)}`).join("；") : "沒有找到不增加回撤又能提高報酬的做法。"}</span></li></ul>`; }
   if (opt.ai) h += qAiBlock(opt.ai, "🤖 AI 解讀這份回測");
-  return h + (typeof discHtml === "function" ? discHtml() : "");
+  return h;
 }
 // AI 區塊：{ key, R }；R＝undefined（還沒問）、{ loading }、{ err }、{ text }
 function qAiBlock({ key, R }, label = "🤖 問 AI") {

diff --git a/learner/stockx.js b/learner/stockx.js
@@ -48,7 +48,7 @@ function sxRender() {
   const box = $("#sxBox"); if (!box || !isSxSub()) return; W.sx = dSub(); if (!SX[W.sx]) return;
   sxNeed(W.sx);
   let h = ""; try { h = SX[W.sx]() || ""; } catch (e) { console.error("stockx", W.sx, e); h = `<p class="note err">這一頁出錯了（${esc(e.message)}）</p>`; }
-  box.innerHTML = h + discHtml(); postHeight();
+  box.innerHTML = h; postHeight();
 }
 const sxD = () => (W.daily?.data || []), sxI = () => (W.info && !W.info.err ? W.info : null), sxC = () => (W.co?.code === W.sel && !W.co.loading && !W.co.err ? W.co : null);
 const sxPx = () => (W.detailQ || W.quotes.get(W.sel))?.price ?? sxD().at(-1)?.c ?? null;

diff --git a/learner/README.md b/learner/README.md
@@ -340,6 +340,16 @@ API：`GET /api/podcast?q=` 搜尋節目、`?feed=` 讀 RSS、`?act=cfg`；`POST
 
 `/api/company` 多回傳兩項：`dist`（最新一週的完整股權分散表）、`foreign`（外資持股比例，FinMind `TaiwanStockShareholding`）。
 
+### 手機捲動、熱門併進排行、選股數字看得清楚、免責聲明只放頁尾（2026.10.18-88）
+
+- 手機：清單不再是自己的捲動區（以前在清單上往上滑有時候只捲清單、整頁不動），頂列與分頁列在手機上不用模糊效果，iOS 捲動比較順。
+- 台股熱門、美股熱門併進「排行」：排行上方切換台股排行／台股熱門／美股熱門；大盤的台股、美股頁底下也有熱門前 8 名，「看全部」直接到排行。
+- 選股的數字格在新主題是白底白字，改成強調色底＋深色字；行事曆選中的日期同樣修正。
+- 免責聲明只放在頁尾一次（不再每個清單、子頁、回測報告都重複一次；嵌在首頁時只顯示首頁頁尾那一份）。
+- 手機頂列的 KLineLab 字樣不會被擠掉（窄螢幕先藏副標與 PRO 徽章）。
+- 按鍵維持無框：PRO 徽章、首頁介紹按鈕、K 線副圖訊號開關。
+- Logo 右邊光束改細。
+
 ### 版面改回版心留白、節目頭像、Logo 改成 K 字形（2026.10.18-87）
 
 - 版面結構改回「版心留白」（面板不加框線、頂列與分頁列用原本的樣式、圓角 6px），保留 KLineLab 的碳黑配色與 Space Grotesk／Inter／JetBrains Mono 字體。
